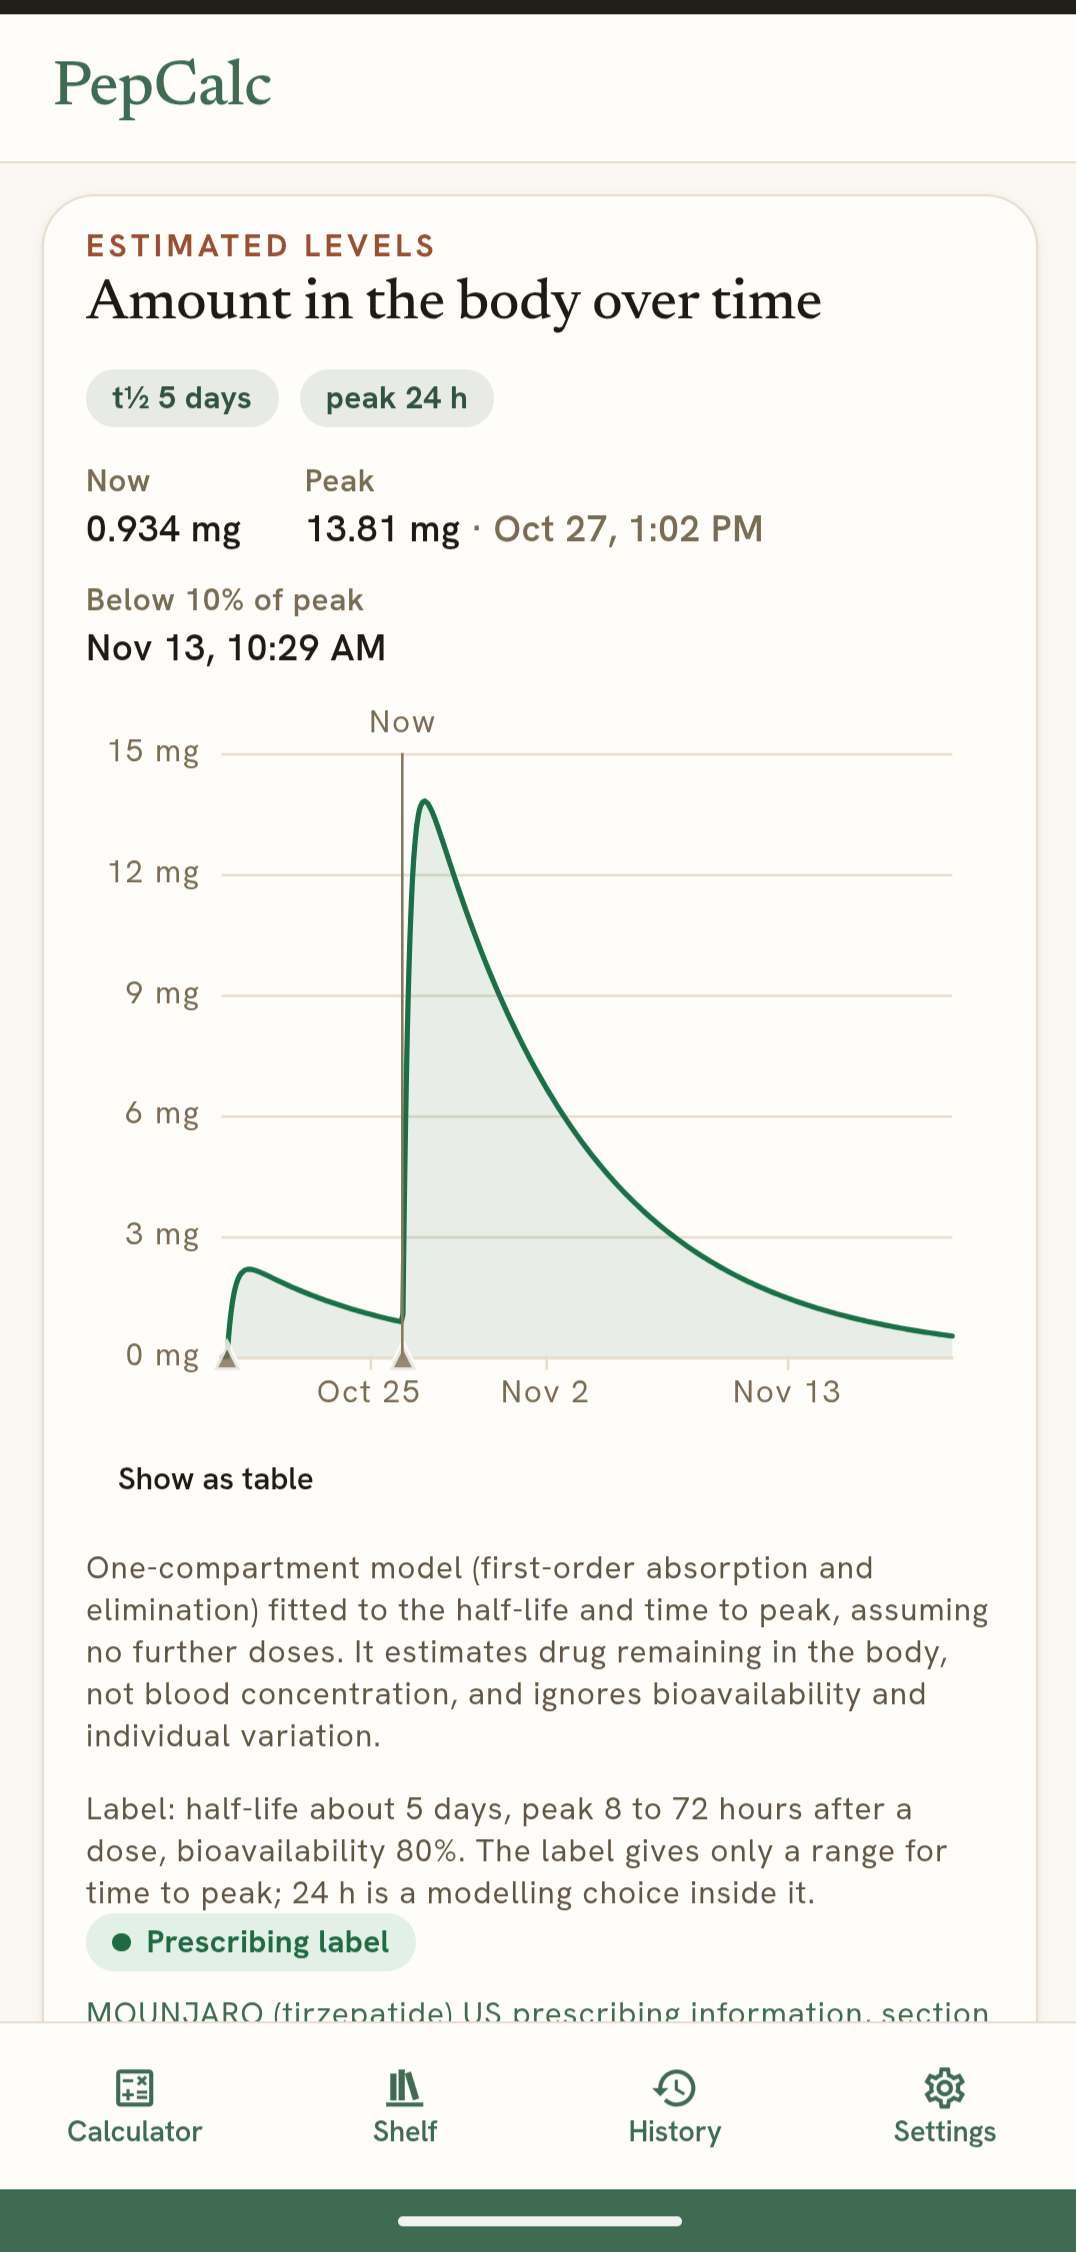
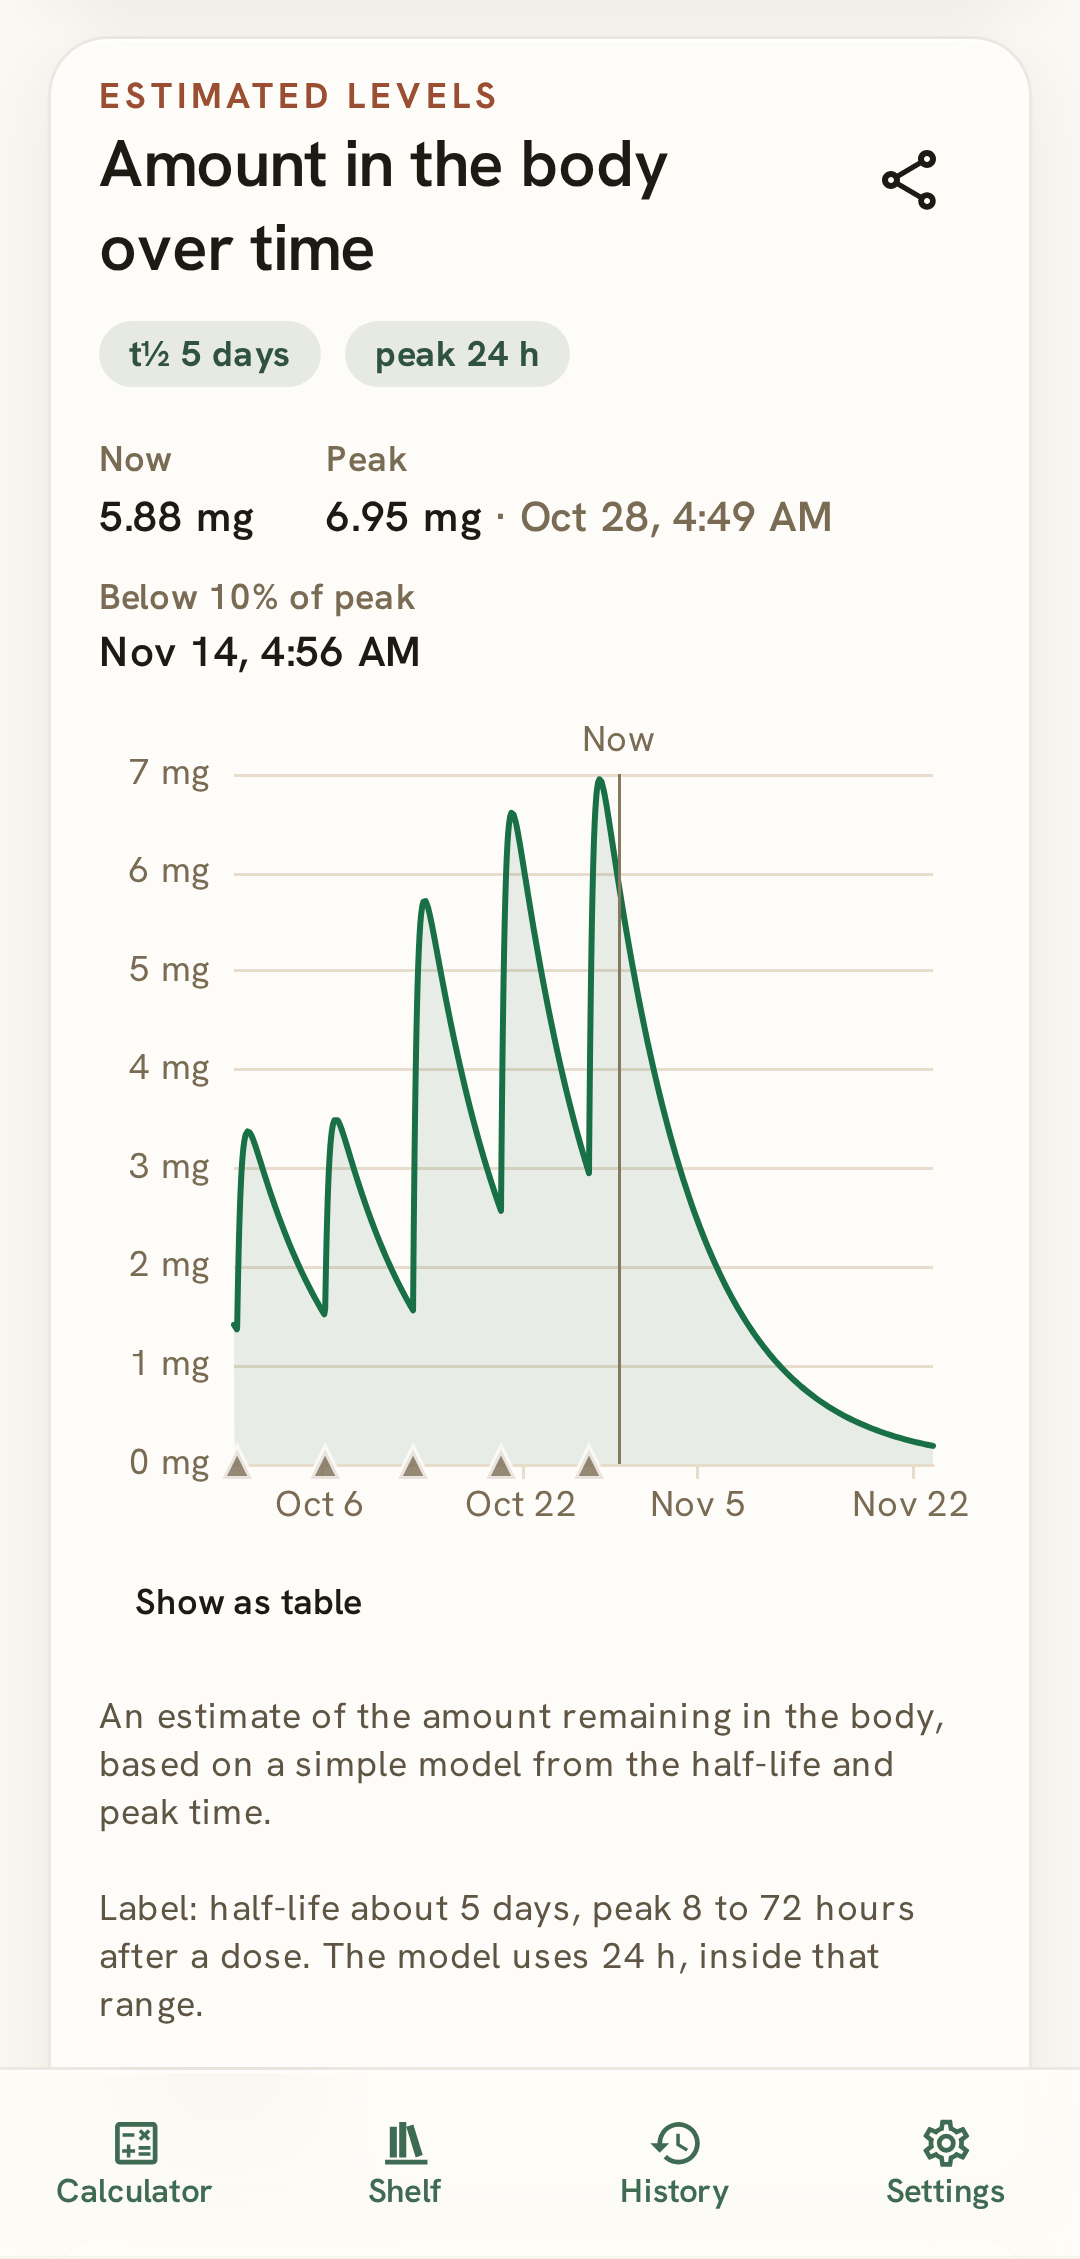
update app ui

diff --git a/src/services/report/levelsReport.ts b/src/services/report/levelsReport.ts
@@ -66,18 +66,16 @@ const TOP = 48
 const BOTTOM = 56
 
 const CAVEAT =
-  'Estimated amount left in the body from logged doses, not blood levels. A one-compartment ' +
-  'model fitted to the half-life and time to peak; it ignores bioavailability and individual ' +
-  'variation, and assumes no further doses.'
+  'Estimated amount left in the body from logged doses, not blood levels. Based on a simple ' +
+  'model from the half-life and time to peak.'
 
 const ABOUT = [
-  'PepCalc does arithmetic and shows sourced references. It never recommends a dose, and ' +
-    'nothing in this report is medical advice.',
-  'Draws are the ones logged in PepCalc on this device. Doses in IU are never converted to or ' +
-    'added to mass. Level curves pool every logged draw of a peptide across its vials.',
-  'Built-in half-lives and times to peak come only from human data (a prescribing label or a ' +
-    'clinical trial); values marked user-supplied were entered by the person who made this ' +
-    'report.',
+  'PepCalc does arithmetic and shows sourced references. It never recommends a dose and is ' +
+    'not medical advice.',
+  'Draws are those logged in PepCalc on this device. IU doses are never converted to mass. ' +
+    'Level curves include every logged draw of a peptide, across all its vials.',
+  'Built-in half-lives and peak times come only from human data (a label or a clinical ' +
+    'trial). Values marked user-supplied were entered by the person who made this report.',
 ]
 
 /**

diff --git a/e2e/app.spec.ts b/e2e/app.spec.ts
@@ -241,14 +241,14 @@ test('the top bar scrolls away when reading and returns on scrolling up', async 
   const bar = page.locator('.v-app-bar')
   await page.evaluate(() => window.scrollTo(0, 0))
   await expect(bar).not.toHaveClass(/pc-app-bar--hidden/)
-  await scrollInSteps(page, 150, 4)
+  await scrollInSteps(page, 120, 4)
   await expect(bar).toHaveClass(/pc-app-bar--hidden/)
   await scrollInSteps(page, -80, 1)
   await expect(bar).not.toHaveClass(/pc-app-bar--hidden/)
 
   // Hidden again, then a tap on plain page background brings it back.
   await page.evaluate(() => window.scrollTo(0, 0))
-  await scrollInSteps(page, 150, 4)
+  await scrollInSteps(page, 120, 4)
   await expect(bar).toHaveClass(/pc-app-bar--hidden/)
   await page
     .locator('.pc-page')

diff --git a/src/views/HistoryView.vue b/src/views/HistoryView.vue
@@ -124,8 +124,8 @@ async function deleteDraw(draw: DrawRow) {
         <v-card v-if="withoutPk.length || cleared.length" variant="tonal">
           <v-card-text class="text-body-medium pc-stack pc-stack--tight">
             <p v-if="withoutPk.length">
-              <strong>No curve for {{ withoutPk.join(', ') }}.</strong> There's no reliable human
-              data. To see one, add your own half-life and time to peak on the vial.
+              <strong>No curve for {{ withoutPk.join(', ') }}.</strong> No reliable human data. Add
+              your own half-life and time to peak on the vial to see one.
             </p>
             <p v-if="cleared.length">
               <strong>Cleared:</strong> {{ cleared.join(', ') }}. Logged doses are estimated to have

diff --git a/src/components/shelf/VialFormDialog.vue b/src/components/shelf/VialFormDialog.vue
@@ -217,11 +217,10 @@ function save() {
             <p class="text-body-small pc-muted">
               <template v-if="catalogPk">
                 Replaces the published values (t½ {{ catalogPk.halfLifeHours }} h, peak
-                {{ catalogPk.tmaxHours }} h). The chart is labelled user-supplied.
+                {{ catalogPk.tmaxHours }} h). The chart is marked user-supplied.
               </template>
               <template v-else>
-                There's no reliable human data for this peptide. The chart is labelled
-                user-supplied.
+                No reliable human data for this peptide. The chart is marked user-supplied.
               </template>
             </p>
           </div>

diff --git a/src/views/SettingsView.vue b/src/views/SettingsView.vue
@@ -241,9 +241,8 @@ const formatMb = (bytes: number | null) =>
             </v-btn-toggle>
           </div>
           <p v-if="settings.vialAgeMode === 'sourced'" class="text-body-medium pc-muted">
-            Uses each vial's cited limit ({{ catalog.storage.inUse.days }} days for bacteriostatic
-            water unless a peptide's label says less). Vials show <em>use soon</em> in the last
-            quarter.
+            Each vial's cited limit ({{ catalog.storage.inUse.days }} days for bacteriostatic water,
+            or less if the label says so). Vials show <em>use soon</em> in the last quarter.
           </p>
           <template v-else>
             <div class="d-flex ga-3 align-start">

diff --git a/src/components/charts/PkPanel.vue b/src/components/charts/PkPanel.vue
@@ -80,9 +80,8 @@ const shareSource = computed(() => {
           :lookback-hours="lookbackHours"
         />
         <p class="text-body-small pc-muted">
-          Estimated amount in the body, not blood levels. Uses a one-compartment model from the
-          half-life and peak time, assumes no further doses, and ignores bioavailability and
-          individual variation.
+          An estimate of the amount remaining in the body, based on a simple model from the
+          half-life and peak time.
         </p>
         <div v-if="!userSupplied && peptide?.pk" class="pc-stack pc-stack--tight">
           <p class="text-body-small pc-muted">{{ peptide.pk.notes }}</p>

diff --git a/src/styles/theme.css b/src/styles/theme.css
@@ -244,7 +244,7 @@
     letter-spacing: -0.003em;
   }
 
-  /* Fields: warm surface, soft inset, sage focus border plus terracotta ring. */
+  /* Fields: warm surface, soft inset, sage focus border. One focus indicator, not a border and a ring. */
   .v-field--variant-outlined {
     background-color: var(--pc-surface);
     border-radius: var(--pc-radius-md);
@@ -262,10 +262,6 @@
 
   .v-field--focused.v-field--variant-outlined .v-field__outline {
     color: var(--pc-brand);
-  }
-
-  .v-field--focused.v-field--variant-outlined {
-    box-shadow: var(--pc-shadow-focus);
   }
 
   .v-field--error.v-field--variant-outlined .v-field__outline {

diff --git a/src/components/charts/levelsShareCard.ts b/src/components/charts/levelsShareCard.ts
@@ -245,8 +245,8 @@ export async function renderLevelsCard(
   ctx.font = `400 26px ${font}`
   ctx.fillStyle = t['text-2']
   const caveat =
-    'Estimated amount in the body from logged doses, not blood levels. One-compartment ' +
-    'model. Not medical advice.' +
+    'Estimated amount in the body from logged doses, based on a simple model. ' +
+    'Not medical advice.' +
     (content.input.preview ? ' Dashed line: a draw not yet logged.' : '')
   for (const line of wrap(ctx, caveat, inner, 3)) {
     ctx.fillText(line, PAD, y)

diff --git a/src/views/ShelfView.vue b/src/views/ShelfView.vue
@@ -31,7 +31,7 @@ const { state: archivedPaging, current: archivedPage } = usePaging(() => shelf.a
       <v-card-text class="pc-stack pc-stack--tight">
         <p><strong>No vials yet.</strong></p>
         <p class="pc-muted">
-          In the calculator, tap <em>Save vial to shelf</em> to track what's left as you log draws.
+          Tap <em>Save vial to shelf</em> in the calculator to track what's left.
         </p>
       </v-card-text>
     </v-card>

diff --git a/src/services/report/collectReport.ts b/src/services/report/collectReport.ts
@@ -69,8 +69,8 @@ function describePeptide(
       curve: null,
       noCurveReason:
         peptide?.pkUnavailableReason ??
-        'No level curve: there is no pharmacokinetic data for a custom peptide. Enter a ' +
-          'half-life and time to peak on the vial to see one.',
+        'No level curve: custom peptides have no published data. Enter a half-life and time ' +
+          'to peak on the vial to see one.',
     }
   }
 

diff --git a/README.md b/README.md
@@ -5,15 +5,14 @@ from the browser to your phone or tablet's home screen; it then works with no co
 Everything you enter stays on your device.
 
 <p align="center">
-  <img src=".github/feature-peptide-calculator.png" alt="The draw calculator: a peptide, vial size and water volume chosen from sourced presets" width="300">
+  <img src=".github/feature-peptide-calculator.png" alt="The draw calculator: semaglutide, a 5 mg vial and 2 mL of water chosen from sourced presets" width="300">
   &nbsp;&nbsp;
-  <img src=".github/feature-estimated-level-over-time.png" alt="The level chart: estimated amount in the body over time from logged doses" width="300">
+  <img src=".github/feature-estimated-level-over-time.png" alt="The level chart: estimated tirzepatide in the body over time from logged draws" width="300">
 </p>
 
-Pick a peptide, the amount in your vial and the water you added, and PepCalc tells you how far
-to draw the syringe, with a drawing of the barrel to check against. Save vials to a shelf, log
-each draw, and for peptides with published human data see an estimate of how much remains in
-the body over time. It runs entirely on your device: no account, no server, no tracking.
+Pick a peptide, the amount in your vial and the water you added, and PepCalc shows how far to
+draw the syringe, with a drawing of the barrel to check against. It runs on your device with no
+account, server or tracking.
 
 > PepCalc does arithmetic and shows sourced reference values. It does not recommend doses and
 > is not medical advice. Several listed peptides are investigational or not approved for human
@@ -21,34 +20,26 @@ the body over time. It runs entirely on your device: no account, no server, no t
 
 ## Features
 
-- **Draw calculator.** Pick a peptide (or enter a custom one), the amount in the vial, and the
-  bacteriostatic water added; choose a dose in mg, mcg, or IU. PepCalc shows the volume to draw
-  and the reading on your syringe, with a drawing of the barrel. U-100 (1, 0.5, 0.3 mL,
-  half-unit), U-40, and mL syringes are supported, with warnings for draws over capacity,
-  below one mark, or between marks.
-- **Mixing advisor.** Not sure how much water to add? Enter the doses you plan to draw (a
-  range if you titrate) and the size of your vial, and PepCalc ranks water volumes so every
-  dose fits one syringe and lands on a mark. Peptides users report as stinging (GHK-Cu, and
-  blends that contain it) are diluted as far as the vial allows. When the vial is too small for
-  a gentle mix, PepCalc says how far to top up the syringe with water after drawing each dose,
-  both in the advisor and on every draw.
-- **Presets with sources.** Common vial sizes, water volumes, and doses for each peptide. Each
-  preset shows whether it comes from a prescribing label, a clinical trial, or community
-  reports.
-- **Blends.** KLOW and GLOW (and any custom composition) split each dose into its components.
-- **Shelf.** Save reconstituted vials so concentrations are never re-entered; log draws and see
-  what is left, in amount, volume, and doses.
-- **Level charts.** For peptides with human pharmacokinetic data (semaglutide, tirzepatide,
-  retatrutide, cagrilintide, tesamorelin), an estimate of the amount in the body over time from
-  your logged doses plus the draw you are calculating, projected forward with no further doses.
-  For other peptides you may enter your own half-life, and the chart is labelled as such.
-- **Share and export.** Share a level chart as an image (with the option to leave out the
-  peptide name and amounts), or export a PDF report of your draws and estimated levels for the
-  last 30 or 90 days or all time, with every half-life's source. Both are made on the device:
-  no upload, no account, no paywall.
-- **Private and offline.** No account, no server, no analytics, no third-party requests. Back up
-  to a JSON file you keep, and restore from it.
-- **Phones and tablets, light and dark.** Follows the device theme.
+- Draw calculator: dose in mg, mcg or IU, with the volume and syringe reading for U-100 (1,
+  0.5, 0.3 mL, half-unit), U-40 and mL syringes. Warns when a draw is over capacity, under one
+  mark or between marks.
+- Mixing advisor: enter the doses you plan to draw and your vial size, and PepCalc ranks water
+  volumes so every dose fits one syringe and lands on a mark. For peptides users report as
+  stinging (GHK-Cu and blends that contain it), it dilutes as far as the vial allows, or says how
+  far to top up the syringe with water.
+- Presets with sources: vial sizes, water volumes and doses for each peptide, each marked as
+  coming from a prescribing label, a clinical trial or community reports.
+- Blends: KLOW, GLOW and custom mixes split each dose into its components.
+- Shelf: save mixed vials, log draws and see what's left.
+- Level charts: an estimate of the amount remaining in the body, based on a simple model from
+  published human data (semaglutide, tirzepatide, retatrutide, cagrilintide, tesamorelin). For
+  other peptides you can enter your own half-life, and the chart is marked user-supplied.
+- Share and export: share a level chart as an image, with or without the peptide name and
+  amounts, or export a PDF report for the last 30 days, 90 days or all time. Both are made on
+  the device.
+- Private and offline: no account, server, analytics or third-party requests. Back up to a JSON
+  file you keep.
+- Phones and tablets, in light and dark themes.
 
 ## Launch peptides
 
